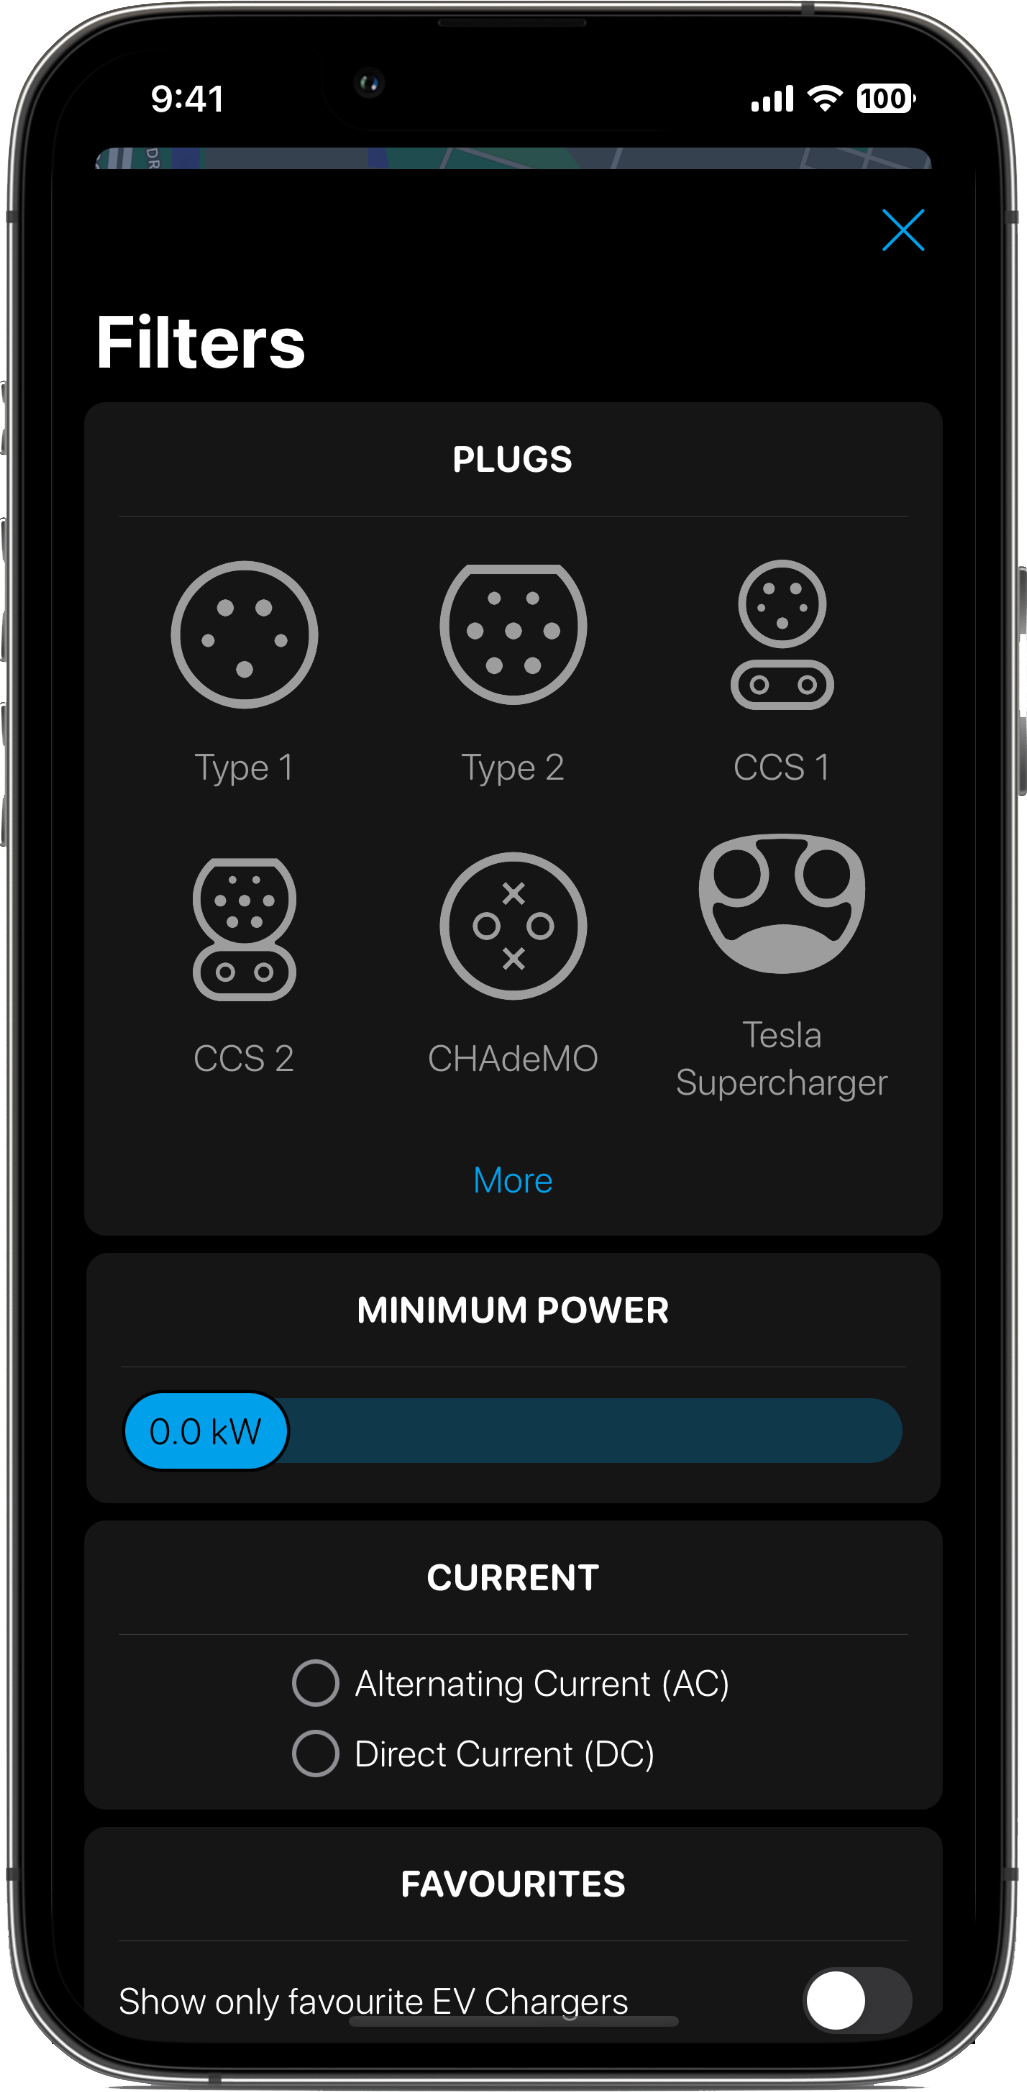
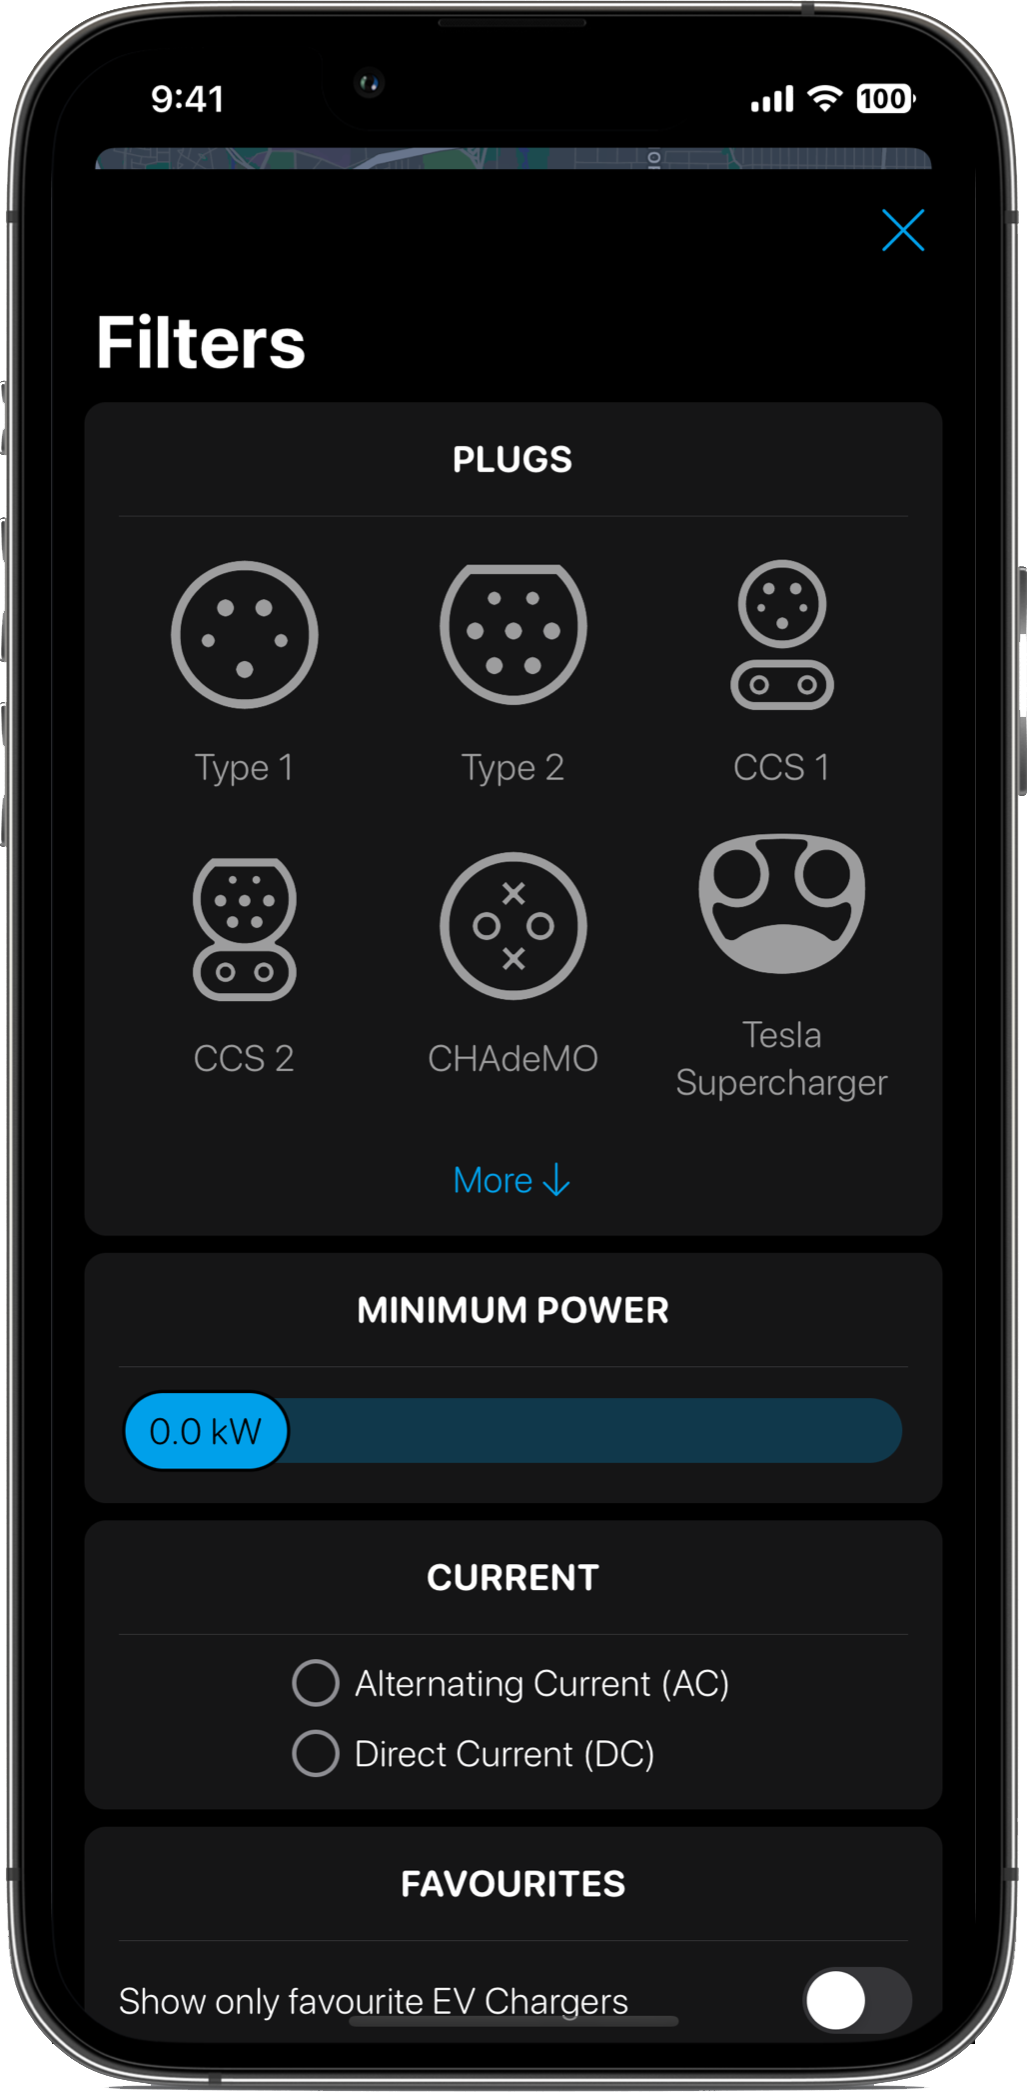
Update filters picture and "About" in footer

diff --git a/index.html b/index.html
@@ -391,7 +391,7 @@
           <div class="col-md">
             <div class="ftco-footer-widget mb-4">
               <h2 class="ftco-heading-2">About</h2>
-              <p>Hi! This is my personal portfolio.</p>
+              <p>This is my personal portfolio.</p>
 
               <!--
 
